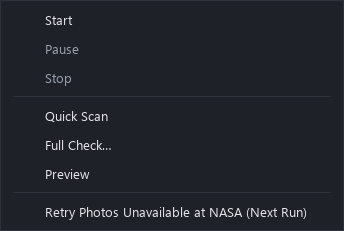
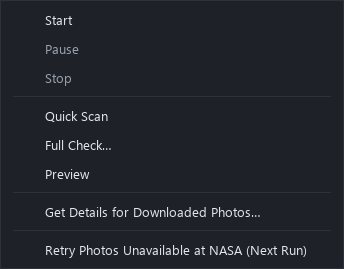
README: the Photos page, with pictures
A Photos section with pictures of the page and the full-size view, how photos are matched to their details, the new menu items, the details file in the app data folder, and the new modules. The window picture and the cards and menus that changed are drawn again.

diff --git a/README.md b/README.md
@@ -2,9 +2,10 @@
 
 Downloads the raw photos taken by NASA's four Mars rovers (**Curiosity**, **Perseverance**, **Spirit** and
 **Opportunity**) into a tidy folder on your computer. Run it again later and it fetches only what's new or still
-missing, so it can keep a growing collection up to date.
+missing, so it can keep a growing collection up to date. Its **Photos** page browses what you've downloaded, with
+when and where each photo was taken.
 
-![The Rover Image Scraper window in its default dark theme, after a download: the photo folder, API key, rovers and options on the left; library status, progress, Mars Vista usage and the activity log on the right](.github/screenshot.png)
+![The Rover Image Scraper window in its default dark theme, after a download: the Download and Photos tabs at the top; the photo folder, API key, rovers and options on the left; library status, progress with the latest photo, Mars Vista usage and the activity log on the right](.github/screenshot.png)
 
 It's free and open source (see [License](#license)).
 
@@ -84,6 +85,8 @@ inside the sols you have; it uses about one Mars Vista request per sol, so it as
 
 ![The Mars Vista API Usage card: requests this hour and today, and NASA archive requests](.github/readme/usage.png)
 
+*Latest Photo* shows the newest photo saved; *Show on Photos Page* opens it there.
+
 *Unavailable at NASA* counts photos NASA's servers won't send; they're remembered and skipped on later runs.
 Mars Vista allows 10,000 requests an hour and 100,000 a day. Near a limit, an amber banner shows when the run
 resumes, and it carries on by itself.
@@ -106,6 +109,44 @@ requests it needs, without downloading anything. *Start Now* starts it.
 
 Every card can fold to its title bar with its *Hide* link (*Show* opens it again), and the app remembers which
 are folded.
+
+## Photos
+
+![The Photos page: sols of Perseverance with their photo counts on the left, the photos of one camera as thumbnails in the middle, and the chosen photo's preview and details on the right: when it was taken, the Mars local time, the site and drive, its position, where the camera pointed, and a link to NASA's page](.github/readme/photos.png)
+
+The **Photos** tab (or *Ctrl+2*) browses the photo folder without a file manager.
+
+- **Browse:** choose a rover, then a sol (with its number of photos), then a camera, or type a sol into *Go To
+  Sol*. While a download runs, *Newest Downloads* lists the photos as they arrive.
+- **Thumbnails:** *Thumbnail Size* makes them bigger or smaller. Arrow keys move between photos.
+- **Details:** the chosen photo's preview, rover, sol, camera, size and file, and the details looked up online
+  (below). *Show in Folder* opens it in your file manager.
+- **Full size:** *View Full Size*, a click on the preview, or a double-click on a thumbnail. The mouse wheel zooms,
+  dragging moves the photo, and a double-click switches between *Fit* and *Actual Size*. *Previous* and *Next*
+  (or the arrow keys) step through the camera's photos; *Esc* goes back.
+
+![A photo at full size, with Previous, Next, Fit and Actual Size above it](.github/readme/photo_full.png)
+
+**When and where each photo was taken** is looked up online the first time you open a sol, for all its photos at
+once, and kept in the app data folder, so it shows instantly after that (also offline). It shows the time taken
+(UTC) and on Mars, the site and drive (the rover's place along its route), the position from the site's starting
+point, where the camera pointed, the filter, and a link to the photo's NASA page. Curiosity and Perseverance use a
+few Mars Vista requests per sol (an API key is needed); Spirit and Opportunity use NASA's archive.
+
+*Download > Get Details for Downloaded Photos…* looks up every sol in the folder ahead of time. It can be stopped
+at any point; the next run carries on from there.
+
+<details>
+<summary><b>How photos are matched to their details</b></summary>
+
+- Photos downloaded by this version are recorded as they're saved, so their details need no matching.
+- Photos already in the folder are matched to NASA's list by their exact file size, never by their order. Photos
+  that match no single NASA photo (for example old thumbnails, or copies from NASA's former image gallery) show
+  details for the sol as a whole, and say so.
+- Downloading more photos into a sol looks it up again the next time it's opened.
+- The details belong to the photo folder: after moving the folder, sols are looked up again.
+
+</details>
 
 ## Menus
 
@@ -138,9 +179,10 @@ folder picker instead of the system's, because the system's can't be see-through
 
 - **File:** Choose Photo Folder… (Ctrl+O), Open Photo Folder, **Settings** (Change App Data Folder…, Reset
   Settings to Defaults…), Quit (Ctrl+Q).
-- **Download:** Start, Pause, Stop, Quick Scan, Full Check… and Preview (the same as the buttons), and *Retry
-  Photos Unavailable at NASA (Next Run)*, which tries all photos NASA wouldn't send again on the next run.
-- **View:** Theme, **Units** (Data: Auto, KB, MB, GB or TB; Speed: Auto, KB/s, MB/s or Mbit/s; Speed Averaged
+- **Download:** Start, Pause, Stop, Quick Scan, Full Check… and Preview (the same as the buttons), *Get Details
+  for Downloaded Photos…* (see [Photos](#photos)), and *Retry Photos Unavailable at NASA (Next Run)*, which tries
+  all photos NASA wouldn't send again on the next run.
+- **View:** Download Page (Ctrl+1), Photos Page (Ctrl+2), Theme, **Units** (Data: Auto, KB, MB, GB or TB; Speed: Auto, KB/s, MB/s or Mbit/s; Speed Averaged
   Over: 5, 10, 30 or 60 seconds), Show Activity Log, Detailed Activity Log (a line for every sol checked and
   every photo saved or skipped), Window Opacity, Reset View Options.
 - **Help:** Mars Vista Website, Open App Data Folder, Report a Problem (the project's GitHub issues), About.
@@ -237,8 +279,10 @@ The app never overwrites, renames or deletes files in your photo folder. It only
 <details>
 <summary><b>The app data folder</b></summary>
 
-The app keeps a few small files of its own (settings, scan results, Mars Vista request counts and the list of
-photos unavailable at NASA) in its *app data folder*, never in your photo folder. You choose it on first run; it
+The app keeps a few files of its own (settings, scan results, Mars Vista request counts, the list of photos
+unavailable at NASA, and the photo details looked up for the Photos page in `photo_details.db`) in its *app data
+folder*, never in your photo folder. The photo details grow with your library: roughly 200–250 MB for every
+Curiosity and Perseverance photo. You choose it on first run; it
 can be on any drive. The suggested place is `%LOCALAPPDATA%\RoverImageScraper\` on Windows and
 `~/.local/share/RoverImageScraper/` on macOS and Linux. Which folder you chose is remembered for your user account
 (in the Windows registry under `HKCU\Software\RoverImageScraper`, or in `~/.config/RoverImageScraper/data_folder`
@@ -387,6 +431,8 @@ All program code is in `rover_scraper/`:
 - `download.py`: downloads that never overwrite existing files.
 - `scan.py`: Library status (quick scan and full check).
 - `ratelimit.py`: counts Mars Vista requests, and the optional download limit.
+- `photo_page.py`: the Photos page. `photo_library.py`: finds the photos in the folder.
+  `photo_details.py`: looks up when and where photos were taken, and keeps the details.
 - `state.py`: the app data folder, and the photos NASA won't serve. `settings.py`: the app's saved settings.
 - `check.svg` and `check_dark.svg`: the tick drawn in checkboxes (white, or dark on light accent colors).
 
